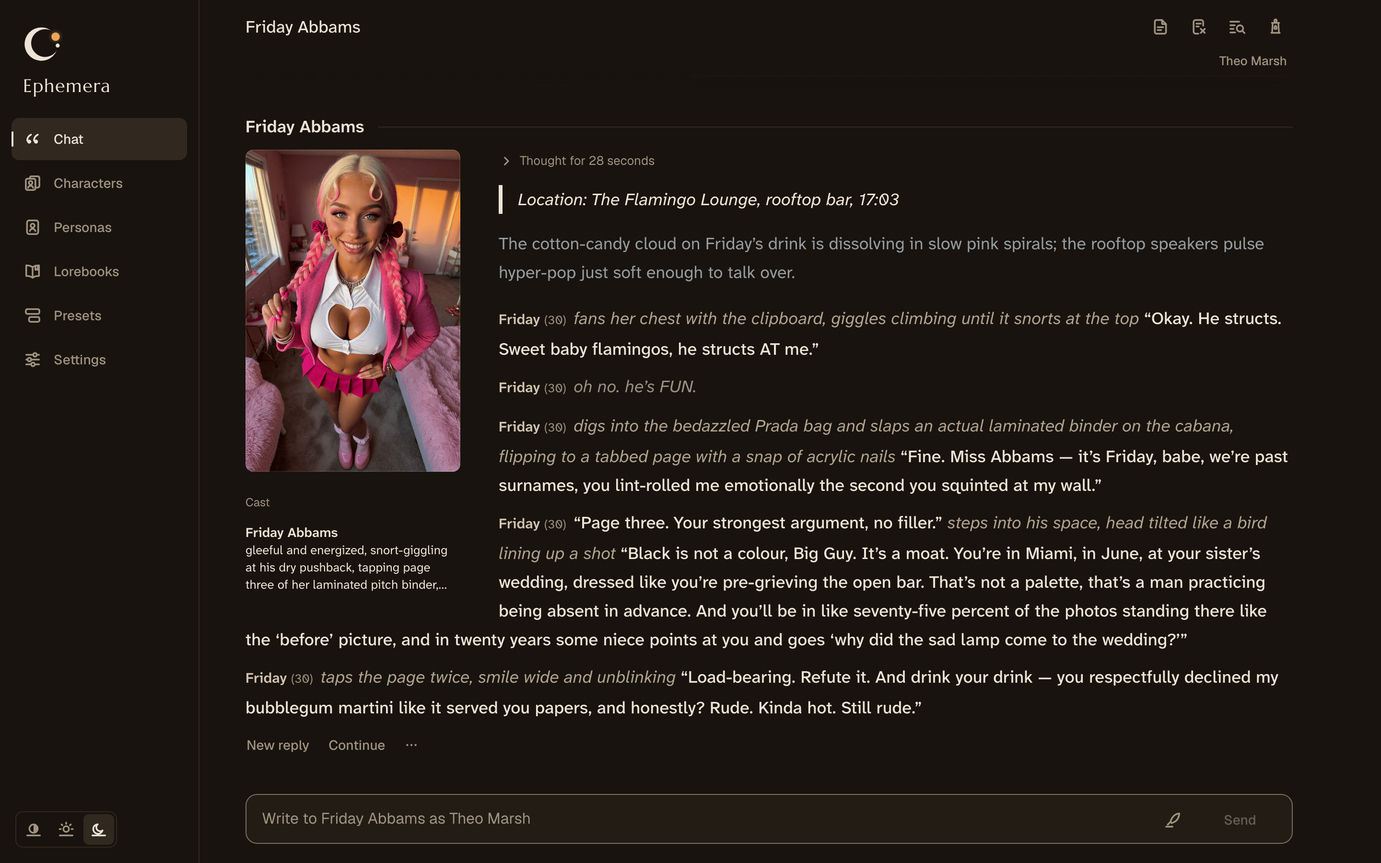
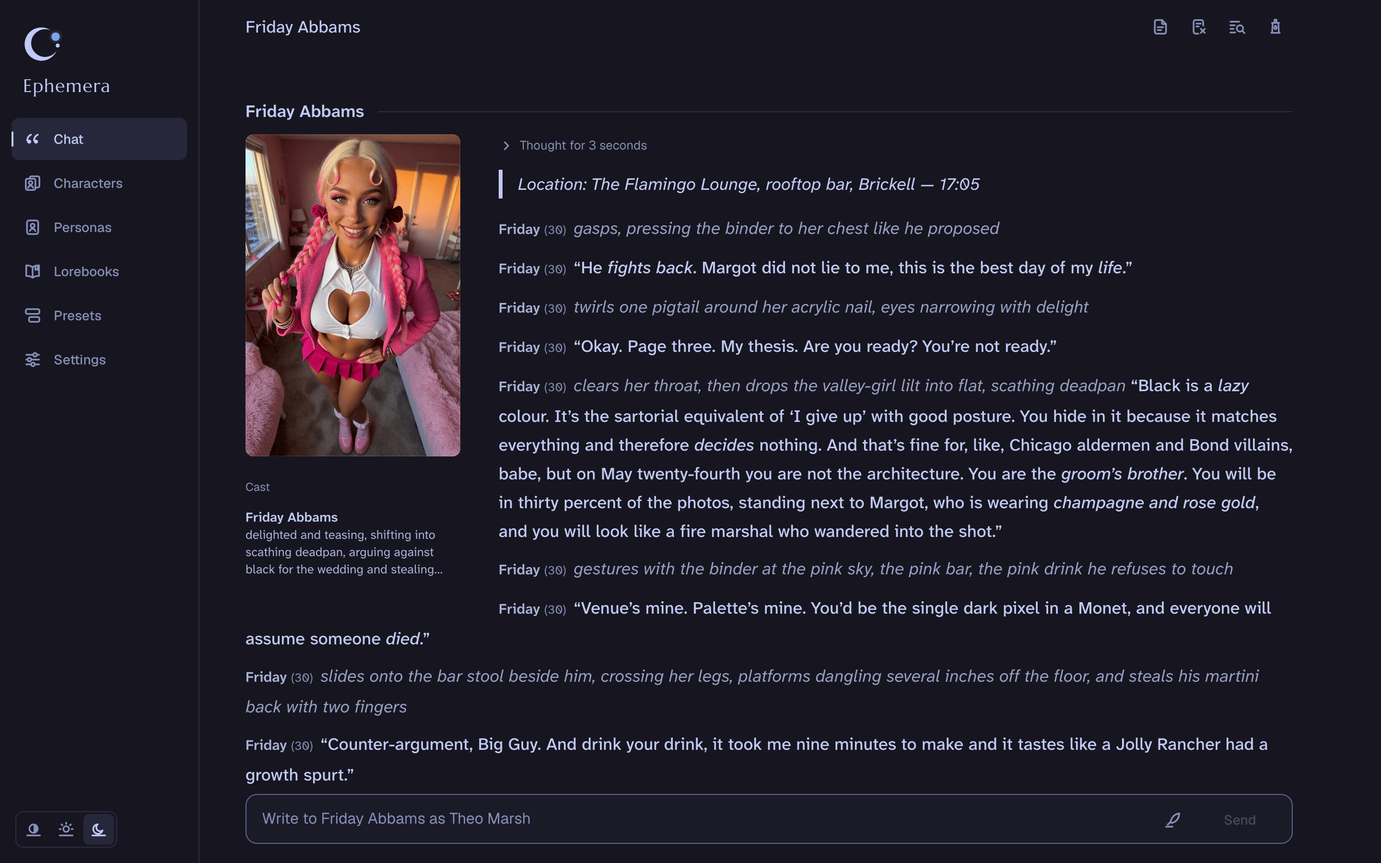
Make Tokyo Night the default palette
New installations and new users start on Tokyo Night; users who already chose a palette keep it. Secondary text now holds its contrast floor on selected rows in every built-in palette, and the README screenshots show the new default.

diff --git a/apps/web/src/styles.css b/apps/web/src/styles.css
@@ -32,11 +32,42 @@
  * Palettes: every colour token, defined once per palette as a light-dark()
  * pair, so the theme picks the scheme and the palette only the colours.
  * `data-palette` on <html> (core PALETTES, saved in Settings) chooses one;
- * on a swatch it scopes one to the swatch. Lamplight, Ephemera's own, needs
- * no attribute. Every palette holds Lamplight's contrast floors in both
- * schemes (e2e/design.spec.ts).
+ * on a swatch it scopes one to the swatch. Tokyo Night, the default (core
+ * DEFAULT_PALETTE), needs no attribute, so its block comes first and every
+ * later one overrides it. Every palette holds Lamplight's contrast floors in
+ * both schemes (e2e/design.spec.ts).
  */
+/* Tokyo Night: Day by day, Night by night, a blue accent. */
 :root,
+[data-palette="tokyo-night"] {
+  --canvas-base: light-dark(#e1e2e7, #16161e);
+  --surface-base: light-dark(#e9e9ed, #1a1b26);
+  --surface-hover-base: light-dark(#d6d8e2, #222436);
+  --surface-pressed-base: light-dark(#c4c8da, #292e42);
+  --surface-selected-base: light-dark(#d0d3e2, #24283b);
+  --rush-base: light-dark(#c4c8da, #292e42);
+  --ink: light-dark(#343b58, #c0caf5);
+  --narration: light-dark(#414868, #a9b1d6);
+  --ink-action: light-dark(#454d6d, #969ec2);
+  --ink-thought: light-dark(#4b5b97, #838bb5);
+  --ink-narration: light-dark(#466376, #7999ad);
+  --reed: light-dark(#485890, #858fba);
+  --control-edge: light-dark(#7b7d97, #5d6697);
+  --dusk: light-dark(#2668cf, #7aa2f7);
+  --dusk-hover: light-dark(#1f5cbd, #8db0f9);
+  --dusk-line: light-dark(#2e7de9, #7aa2f7);
+  --on-dusk: light-dark(#f4f5f8, #16161e);
+  --ember: light-dark(#bf024f, #f7768e);
+  --tone-rose: light-dark(#7e20bd, #bb9af7);
+  --tone-sage: light-dark(#425f23, #9ece6a);
+  --tone-iris: light-dark(#035d7d, #7dcfff);
+  --tone-mist: light-dark(#516290, #a9b1d6);
+  --error-surface: light-dark(#f0d7df, #3a1f2b);
+  --text-disabled: light-dark(#a1a6c5, #414868);
+  --scrim: light-dark(rgb(52 59 88 / 0.3), rgb(0 0 0 / 0.55));
+  --shadow-overlay: light-dark(rgb(52 59 88 / 0.14), rgb(0 0 0 / 0.5));
+}
+
 [data-palette="lamplight"] {
   /* Warm plaster by day, a lamplit room by night, one amber lamp. */
   --canvas-base: light-dark(#e6e2dc, #17130f);
@@ -93,7 +124,7 @@
   --ink-action: light-dark(#4e5168, #99a0bb);
   --ink-thought: light-dark(#5e6177, #878ea8);
   --ink-narration: light-dark(#57647a, #8898b0);
-  --reed: light-dark(#5d6076, #8893ad);
+  --reed: light-dark(#5a5d73, #8b96b0);
   --control-edge: light-dark(#81828d, #6c7086);
   --dusk: light-dark(#8839ef, #cba6f7);
   --dusk-hover: light-dark(#7a2ee0, #d7b9fa);
@@ -123,7 +154,7 @@
   --ink-action: light-dark(#565270, #a19dba);
   --ink-thought: light-dark(#66627f, #8f8ba9);
   --ink-narration: light-dark(#576978, #849aa3);
-  --reed: light-dark(#696583, #8f8aa8);
+  --reed: light-dark(#65617f, #938eac);
   --control-edge: light-dark(#888593, #6e6a86);
   --dusk: light-dark(#d7827e, #ebbcba);
   --dusk-hover: light-dark(#cc716d, #f2cbc9);
@@ -153,7 +184,7 @@
   --ink-action: light-dark(#495265, #c4cad4);
   --ink-thought: light-dark(#586277, #b0b7c4);
   --ink-narration: light-dark(#516675, #a5b9bf);
-  --reed: light-dark(#566175, #b6becc);
+  --reed: light-dark(#535e72, #bbc3d1);
   --control-edge: light-dark(#778499, #8092ab);
   --dusk: light-dark(#4f72a0, #88c0d0);
   --dusk-hover: light-dark(#45679a, #9acbd9);
@@ -183,7 +214,7 @@
   --ink-action: light-dark(#564f4b, #b4a58a);
   --ink-thought: light-dark(#685e56, #a3947e);
   --ink-narration: light-dark(#5d635b, #92a091);
-  --reed: light-dark(#685d55, #a8997f);
+  --reed: light-dark(#645951, #ab9c82);
   --control-edge: light-dark(#8a7f70, #7e7166);
   --dusk: light-dark(#af3a03, #fe8019);
   --dusk-hover: light-dark(#9a3302, #ff9440);
@@ -198,36 +229,6 @@
   --text-disabled: light-dark(#a89984, #665c54);
   --scrim: light-dark(rgb(60 56 54 / 0.3), rgb(0 0 0 / 0.55));
   --shadow-overlay: light-dark(rgb(60 56 54 / 0.14), rgb(0 0 0 / 0.5));
-}
-
-/* Tokyo Night: Day by day, Night by night, a blue accent. */
-[data-palette="tokyo-night"] {
-  --canvas-base: light-dark(#e1e2e7, #16161e);
-  --surface-base: light-dark(#e9e9ed, #1a1b26);
-  --surface-hover-base: light-dark(#d6d8e2, #222436);
-  --surface-pressed-base: light-dark(#c4c8da, #292e42);
-  --surface-selected-base: light-dark(#d0d3e2, #24283b);
-  --rush-base: light-dark(#c4c8da, #292e42);
-  --ink: light-dark(#343b58, #c0caf5);
-  --narration: light-dark(#414868, #a9b1d6);
-  --ink-action: light-dark(#454d6d, #969ec2);
-  --ink-thought: light-dark(#4b5b97, #838bb5);
-  --ink-narration: light-dark(#466376, #7999ad);
-  --reed: light-dark(#4a5a92, #828cb7);
-  --control-edge: light-dark(#7b7d97, #5d6697);
-  --dusk: light-dark(#2668cf, #7aa2f7);
-  --dusk-hover: light-dark(#1f5cbd, #8db0f9);
-  --dusk-line: light-dark(#2e7de9, #7aa2f7);
-  --on-dusk: light-dark(#f4f5f8, #16161e);
-  --ember: light-dark(#bf024f, #f7768e);
-  --tone-rose: light-dark(#7e20bd, #bb9af7);
-  --tone-sage: light-dark(#425f23, #9ece6a);
-  --tone-iris: light-dark(#035d7d, #7dcfff);
-  --tone-mist: light-dark(#516290, #a9b1d6);
-  --error-surface: light-dark(#f0d7df, #3a1f2b);
-  --text-disabled: light-dark(#a1a6c5, #414868);
-  --scrim: light-dark(rgb(52 59 88 / 0.3), rgb(0 0 0 / 0.55));
-  --shadow-overlay: light-dark(rgb(52 59 88 / 0.14), rgb(0 0 0 / 0.5));
 }
 
 :root {

diff --git a/e2e/settings.spec.ts b/e2e/settings.spec.ts
@@ -56,8 +56,9 @@ async function settingSwitch(
   return control;
 }
 
-const LIGHT = "rgb(230, 226, 220)";
-const DARK = "rgb(23, 19, 15)";
+/** Tokyo Night, the default palette: its canvas by day and by night. */
+const LIGHT = "rgb(225, 226, 231)";
+const DARK = "rgb(22, 22, 30)";
 
 test("the theme follows the system unless overridden", async ({ page }) => {
   await page.emulateMedia({ colorScheme: "light" });
@@ -154,7 +155,7 @@ test("a palette recolours the app in either scheme and is painted onto the app s
   const palettes = () => page.getByRole("radiogroup", { name: "Palette", exact: true });
   await page.emulateMedia({ colorScheme: "light" });
   await page.goto("/settings");
-  await expect(palettes().getByRole("radio", { name: "Lamplight" })).toBeChecked();
+  await expect(palettes().getByRole("radio", { name: "Tokyo Night" })).toBeChecked();
 
   await palettes().getByRole("radio", { name: "Nord" }).click();
   await expect.poll(() => canvas(page)).toBe(NORD_LIGHT);
@@ -167,7 +168,7 @@ test("a palette recolours the app in either scheme and is painted onto the app s
   expect(await canvas(page)).toBe(NORD_DARK);
   await expect(palettes().getByRole("radio", { name: "Nord" })).toBeChecked();
 
-  await palettes().getByRole("radio", { name: "Lamplight" }).click();
+  await palettes().getByRole("radio", { name: "Tokyo Night" }).click();
   await expect.poll(() => canvas(page)).toBe(DARK);
   await expect.poll(shellPalette).toBe(false);
 });
@@ -210,7 +211,7 @@ test("a tab that started on the fallback settings takes the saved theme and pale
       "aria-pressed",
       "true",
     );
-    await expect(palettes.getByRole("radio", { name: "Lamplight" })).toBeChecked();
+    await expect(palettes.getByRole("radio", { name: "Tokyo Night" })).toBeChecked();
     // Marks this document, so the recovery below is shown without a reload.
     await page.evaluate(() => {
       (window as unknown as { __sameDocument: boolean }).__sameDocument = true;
@@ -375,7 +376,7 @@ test("a custom palette starts from a built-in, warns, saves, paints before scrip
   await expect(own().getByRole("radio", { name: "Harbour" })).toHaveCount(0);
   await expect.poll(async () => (await shell()).includes("/api/palettes.css")).toBe(false);
 
-  await palettes().getByRole("radio", { name: "Lamplight" }).click();
+  await palettes().getByRole("radio", { name: "Tokyo Night" }).click();
   await expect.poll(() => canvas(page)).toBe(LIGHT);
 });
 

diff --git a/packages/core/src/palettes.ts b/packages/core/src/palettes.ts
@@ -8,7 +8,7 @@ import { HIGHLIGHT_TONES } from "./preset/highlight.ts";
 
 /**
  * The colour palette, each with a light and a dark scheme the theme picks
- * between; colours only, never layout or type. Lamplight is Ephemera's own.
+ * between; colours only, never layout or type. Lamplight is Ephemera's own;\n * Tokyo Night is the default.
  */
 export const PALETTES = [
   "lamplight",
@@ -21,7 +21,7 @@ export const PALETTES = [
 export type Palette = (typeof PALETTES)[number];
 
 /** The palette a new installation starts on; it needs no `data-palette` attribute. */
-export const DEFAULT_PALETTE = "lamplight" satisfies Palette;
+export const DEFAULT_PALETTE = "tokyo-night" satisfies Palette;
 
 /** The player's palettes, one per slot. */
 const CUSTOM_PALETTES = ["custom-1", "custom-2", "custom-3"] as const;
@@ -208,7 +208,11 @@ export const CONTRAST_FLOORS: readonly {
   { role: "ink-action", grounds: on("canvas", "surface"), floor: 6 },
   { role: "ink-thought", grounds: on("canvas", "surface"), floor: 4.8 },
   { role: "ink-narration", grounds: on("canvas", "surface"), floor: 4.8 },
-  { role: "reed", grounds: on("canvas", "surface", "surface-hover"), floor: 4.5 },
+  {
+    role: "reed",
+    grounds: on("canvas", "surface", "surface-hover", "surface-selected"),
+    floor: 4.5,
+  },
   { role: "control-edge", grounds: on("canvas", "surface"), floor: 3 },
   { role: "dusk-line", grounds: on("canvas", "surface"), floor: 3 },
   { role: "on-dusk", grounds: on("dusk", "dusk-hover"), floor: 4.5 },

diff --git a/e2e/design.spec.ts b/e2e/design.spec.ts
@@ -1909,7 +1909,7 @@ for (const scheme of ["light", "dark"] as const) {
       const { canvas, lowest } = await page.evaluate(
         ({ id, floors, wash }) => {
           const root = document.documentElement;
-          if (id === "lamplight") delete root.dataset.palette;
+          if (id === "tokyo-night") delete root.dataset.palette;
           else if (id !== null) root.dataset.palette = id;
           // Every colour as `color(srgb r g b)`, channels 0 to 1, whatever its own form.
           const srgb = (color: string) => {
@@ -1948,7 +1948,7 @@ for (const scheme of ["light", "dark"] as const) {
       }
       canvases.add(canvas);
     }
-    // Each palette applied its own colours, rather than falling back to Lamplight's.
+    // Each palette applied its own colours, rather than falling back to the default's.
     expect(canvases.size).toBe(ids.length);
   });
 }

diff --git a/apps/server/test/palettes.test.ts b/apps/server/test/palettes.test.ts
@@ -64,14 +64,14 @@ describe("custom palette store", () => {
   it("refuses to choose an empty slot, as a missing reference", () => {
     const { stores } = setup();
     expect(stores.settings.update({ palette: "custom-2" })).toBeUndefined();
-    expect(stores.settings.get().palette).toBe("lamplight");
+    expect(stores.settings.get().palette).toBe("tokyo-night");
     stores.palettes.create(2, palette());
     expect(stores.settings.update({ palette: "custom-2" })?.palette).toBe("custom-2");
   });
 
   it.each([
     ["its built-in base", "nord", "nord"],
-    ["Lamplight when its base is custom", "custom-1", "lamplight"],
+    ["the default when its base is custom", "custom-1", "tokyo-night"],
   ] as const)(
     "returns the settings to %s when the chosen palette is deleted",
     (_case, base, after) => {

diff --git a/apps/web/index.html b/apps/web/index.html
@@ -4,8 +4,8 @@
     <meta charset="UTF-8" />
     <meta name="viewport" content="width=device-width, initial-scale=1, viewport-fit=cover, interactive-widget=resizes-content" />
     <meta name="color-scheme" content="light dark" />
-    <meta name="theme-color" media="(prefers-color-scheme: light)" content="#e6e2dc" />
-    <meta name="theme-color" media="(prefers-color-scheme: dark)" content="#17130f" />
+    <meta name="theme-color" media="(prefers-color-scheme: light)" content="#e1e2e7" />
+    <meta name="theme-color" media="(prefers-color-scheme: dark)" content="#16161e" />
     <link rel="icon" href="/favicon.ico" sizes="32x32" />
     <link rel="icon" href="/favicon.svg" type="image/svg+xml" />
     <link rel="apple-touch-icon" href="/apple-touch-icon.png" />

diff --git a/apps/web/auth/renewed.html b/apps/web/auth/renewed.html
@@ -4,8 +4,8 @@
     <meta charset="UTF-8" />
     <meta name="viewport" content="width=device-width, initial-scale=1, viewport-fit=cover" />
     <meta name="color-scheme" content="light dark" />
-    <meta name="theme-color" media="(prefers-color-scheme: light)" content="#e6e2dc" />
-    <meta name="theme-color" media="(prefers-color-scheme: dark)" content="#17130f" />
+    <meta name="theme-color" media="(prefers-color-scheme: light)" content="#e1e2e7" />
+    <meta name="theme-color" media="(prefers-color-scheme: dark)" content="#16161e" />
     <link rel="icon" href="/favicon.ico" sizes="32x32" />
     <link rel="icon" href="/favicon.svg" type="image/svg+xml" />
     <link rel="apple-touch-icon" href="/apple-touch-icon.png" />

diff --git a/apps/server/src/persistence/palettes.ts b/apps/server/src/persistence/palettes.ts
@@ -18,8 +18,8 @@ import type { CustomPaletteStore } from "./store.ts";
  * replacing never creates, and replacing or deleting names the save it acts
  * on (`updatedAt`), so a tab whose list is behind another's cannot overwrite
  * or delete a palette it has not seen. Deleting the palette the settings
- * choose returns them to its built-in base, or to Lamplight, in the same
- * transaction.
+ * choose returns them to its built-in base, or to the default palette, in
+ * the same transaction.
  */
 export function createCustomPaletteStore(db: Db): CustomPaletteStore {
   const get = (slot: CustomSlot): CustomPalette | undefined =>

diff --git a/apps/server/src/persistence/schema.ts b/apps/server/src/persistence/schema.ts
@@ -312,7 +312,10 @@ export const settings = sqliteTable(
   {
     id: integer().primaryKey(),
     theme: text().$type<Theme>().notNull(),
-    /** A core palette id or a saved custom slot's; existing rows keep Ephemera's own. */
+    /**
+     * A core palette id or a saved custom slot's. The SQL default filled rows
+     * from before the column with Lamplight; a new row takes core DEFAULT_PALETTE.
+     */
     palette: text().$type<PaletteChoice>().notNull().default("lamplight"),
     model: text(),
     /** The model that starts image prompts; null uses each surface's own default. */

diff --git a/apps/server/src/persistence/store.ts b/apps/server/src/persistence/store.ts
@@ -289,7 +289,7 @@ export interface CustomPaletteStore {
   ): CustomPalette | "missing" | "changed";
   /**
    * Removes the palette saved at `updatedAt`; settings that chose it return
-   * to its built-in base or Lamplight. "missing" or "changed" as for replace.
+   * to its built-in base or the default palette. "missing" or "changed" as for replace.
    */
   delete(slot: CustomSlot, updatedAt: number): "deleted" | "missing" | "changed";
 }

diff --git a/apps/server/src/images.ts b/apps/server/src/images.ts
@@ -35,7 +35,7 @@ export const IMAGE_LIMITS = {
    */
   vision: { width: 1024, height: 1024, quality: 80, worstCaseBytes: 800_000 },
   /** Image of a PNG export for a character without a portrait. */
-  placeholder: { width: 512, height: 768, background: "#e6e2dc" },
+  placeholder: { width: 512, height: 768, background: "#e1e2e7" },
 } as const;
 
 const ALLOWED_FORMATS = new Set(["png", "jpeg", "webp"]);

diff --git a/docs/ARCHITECTURE.md b/docs/ARCHITECTURE.md
@@ -63,7 +63,7 @@ Major versions are architectural choices; exact versions live in
 | Dates | dayjs with `utc`, `timezone`, `duration` and `relativeTime` | Date macros, UTC offsets and relative differences in `packages/core`; naive dates use the browser's zone, including DST. It reaches the browser in the shared API chunk |
 | API | Hono 4 with `@hono/bun`, Zod 4 | Validated routes, streaming, typed RPC client, static SPA |
 | LLM | AI SDK 7, `@ai-sdk/openai-compatible` | Streaming, abort, reasoning parts, provider quirks |
-| Storage | `bun:sqlite`, Drizzle ORM, `node:crypto` | One SQLite database per user, in memory while in use and encrypted at rest (§ Users and storage): characters, personas and their character bindings, prompt presets with their Author's Note (a nullable column; a row without one reads as the default) and sampler presets, library lorebooks (`lorebooks`: a name and the whole book in the embedded book's schema and limits, its compact JSON within the card limit, the book's own `name` mirroring the row's, and the counts the library lists, written with the book and brought up to date when the database opens, so listing never parses a book) and their links to characters (`character_lorebooks`: at most `LOREBOOK_LINKS`, 8, per character, each at a position; a link is appended after the last in one transaction, linking again changes nothing, unlinking leaves the others' positions, deleting either side removes the link, and duplicating a character copies its links), events (`events`: at most `EVENT_LIMITS.events`, 200, each a one-line text, a chance, a cooldown in replies, an on/off flag and a scope of all cards or chosen character ids and tags, the ids held without a reference so an unknown one matches nothing; definitions only, with no column for which event fired where), a character's memory (`memory_notebooks`: one row per character, keyed by it, with the on/off flag, the situation, relationships, facts and threads, and `opening`, the next chat's opening (at most `MEMORY_LIMITS.opening`, 600 characters, empty when there is none); a PATCH carries the notebook whole, and one without the notebook or the opening keeps the stored one; `memories`: at most `MEMORY_LIMITS.episodes`, 2,000, per character, each an episode or a chapter with a per-character `seq`, a title, a summary, cues, how many turns it covered, the chapter that absorbed it and a pinned flag; both cascade with their character, and neither has a column for the turns, the chat or the span a memory came from), characters' cast sheets (`cast_sheets`: one row per character, keyed by it and cascading with it, holding the card fingerprint it was read at, its entries' fixed records without any state, at most `CAST_LIMITS.sheetEntries`, 8, and a `revision` each write increments; a chat's register has no column), up to three custom palettes (`custom_palettes`: by slot 1 to 3, a name, the palette it started from, its colours and the base's by scheme, the roles set by hand; deleting the chosen one returns the setting to its built-in base, or Lamplight, in the same transaction), the user's imported ComfyUI workflows (`workflows`: at most `WORKFLOW_LIMITS.workflows`, 24, each a name unique regardless of ASCII case, an image model family, the finalized API template with `{{prompt}}` in the prompt's place, its node count and a `revision`; deleting the one the settings choose returns them to the default workflow in the same transaction), one row of UI settings (theme, colour palette, model, image prompt model (null leaves each image prompt on its surface's default), chosen character and persona, default persona, chosen presets, context windows the owner set for models the provider reports none for, the owner's context limit per model, the ComfyUI address and workflow for card portraits, memory's model, effort and sizes, the cast calls' model and effort (null follows memory's), and `memoryOpening`, whether a new chat opens on the memory's opening, a column with SQL default true; references clear themselves when their target is deleted), and portraits of characters and personas in one table (each row belongs to exactly one owner and holds its dimensions, version and WebP thumbnail, and names the encrypted file under the user's folder that holds its PNG), so an entity and its portrait row change in one transaction, and a portrait's file is durable before any database image that names it. One store per entity, each parsing its core schema on every write. Characters, personas, presets, lorebooks, events, notebooks, memories and workflows carry a `revision` that each update increments; a PATCH names the revision its sheet loaded, and a stale one is refused with 409 and the current revision, checked and written in one transaction, so a tab behind another never overwrites it unasked (the sheet offers Reload or Keep mine, which saves the tab's whole version). A stale PATCH that would change nothing, such as a retry after a lost answer, is answered as saved and writes nothing; after a save whose answer was lost, the sheet sends it again alone, as it was, before newer edits, so it learns the revision instead of meeting a false conflict. drizzle-kit runs on demand (`bun run db:generate`, from outside the workspace) to generate migrations; the server applies them when a user's database opens, with foreign keys off (Drizzle runs them in one transaction, where a migration's own `PRAGMA foreign_keys=OFF` does nothing, so a table rebuild would cascade), checks the result with `PRAGMA foreign_key_check` and only then turns enforcement on. A migration therefore never relies on a cascade. At start the server verifies migrations and the native data upgrade, then durably encrypts every changed database before listening; failure refuses startup. The deploy's pre-migration snapshot is the way back |
+| Storage | `bun:sqlite`, Drizzle ORM, `node:crypto` | One SQLite database per user, in memory while in use and encrypted at rest (§ Users and storage): characters, personas and their character bindings, prompt presets with their Author's Note (a nullable column; a row without one reads as the default) and sampler presets, library lorebooks (`lorebooks`: a name and the whole book in the embedded book's schema and limits, its compact JSON within the card limit, the book's own `name` mirroring the row's, and the counts the library lists, written with the book and brought up to date when the database opens, so listing never parses a book) and their links to characters (`character_lorebooks`: at most `LOREBOOK_LINKS`, 8, per character, each at a position; a link is appended after the last in one transaction, linking again changes nothing, unlinking leaves the others' positions, deleting either side removes the link, and duplicating a character copies its links), events (`events`: at most `EVENT_LIMITS.events`, 200, each a one-line text, a chance, a cooldown in replies, an on/off flag and a scope of all cards or chosen character ids and tags, the ids held without a reference so an unknown one matches nothing; definitions only, with no column for which event fired where), a character's memory (`memory_notebooks`: one row per character, keyed by it, with the on/off flag, the situation, relationships, facts and threads, and `opening`, the next chat's opening (at most `MEMORY_LIMITS.opening`, 600 characters, empty when there is none); a PATCH carries the notebook whole, and one without the notebook or the opening keeps the stored one; `memories`: at most `MEMORY_LIMITS.episodes`, 2,000, per character, each an episode or a chapter with a per-character `seq`, a title, a summary, cues, how many turns it covered, the chapter that absorbed it and a pinned flag; both cascade with their character, and neither has a column for the turns, the chat or the span a memory came from), characters' cast sheets (`cast_sheets`: one row per character, keyed by it and cascading with it, holding the card fingerprint it was read at, its entries' fixed records without any state, at most `CAST_LIMITS.sheetEntries`, 8, and a `revision` each write increments; a chat's register has no column), up to three custom palettes (`custom_palettes`: by slot 1 to 3, a name, the palette it started from, its colours and the base's by scheme, the roles set by hand; deleting the chosen one returns the setting to its built-in base, or Tokyo Night, the default, in the same transaction), the user's imported ComfyUI workflows (`workflows`: at most `WORKFLOW_LIMITS.workflows`, 24, each a name unique regardless of ASCII case, an image model family, the finalized API template with `{{prompt}}` in the prompt's place, its node count and a `revision`; deleting the one the settings choose returns them to the default workflow in the same transaction), one row of UI settings (theme, colour palette, model, image prompt model (null leaves each image prompt on its surface's default), chosen character and persona, default persona, chosen presets, context windows the owner set for models the provider reports none for, the owner's context limit per model, the ComfyUI address and workflow for card portraits, memory's model, effort and sizes, the cast calls' model and effort (null follows memory's), and `memoryOpening`, whether a new chat opens on the memory's opening, a column with SQL default true; references clear themselves when their target is deleted), and portraits of characters and personas in one table (each row belongs to exactly one owner and holds its dimensions, version and WebP thumbnail, and names the encrypted file under the user's folder that holds its PNG), so an entity and its portrait row change in one transaction, and a portrait's file is durable before any database image that names it. One store per entity, each parsing its core schema on every write. Characters, personas, presets, lorebooks, events, notebooks, memories and workflows carry a `revision` that each update increments; a PATCH names the revision its sheet loaded, and a stale one is refused with 409 and the current revision, checked and written in one transaction, so a tab behind another never overwrites it unasked (the sheet offers Reload or Keep mine, which saves the tab's whole version). A stale PATCH that would change nothing, such as a retry after a lost answer, is answered as saved and writes nothing; after a save whose answer was lost, the sheet sends it again alone, as it was, before newer edits, so it learns the revision instead of meeting a false conflict. drizzle-kit runs on demand (`bun run db:generate`, from outside the workspace) to generate migrations; the server applies them when a user's database opens, with foreign keys off (Drizzle runs them in one transaction, where a migration's own `PRAGMA foreign_keys=OFF` does nothing, so a table rebuild would cascade), checks the result with `PRAGMA foreign_key_check` and only then turns enforcement on. A migration therefore never relies on a cascade. At start the server verifies migrations and the native data upgrade, then durably encrypts every changed database before listening; failure refuses startup. The deploy's pre-migration snapshot is the way back |
 | Cards | Own PNG chunk walker, own Zod schemas | Native character JSON uses a strict versioned envelope. Native PNG reads and writes one base64 `ephemera` text chunk. Import-only readers accept foreign V2/V3 `ccv3` then `chara` chunks. Native data takes precedence; duplicates, unsupported versions, mixed shapes and malformed native markers fail closed. Recognized foreign fields become typed camelCase data and unknown metadata is dropped with an import report. Import fits lorebook keywords, names and tags to their limits. Compact serialization and UTF-8 limits live in `packages/core`. The bounded PNG walker strips compressed text before portrait decoding and validates at most one ICC profile within a 1 MiB inflation limit; portrait output strips metadata |
 | Images | sharp | Portraits: only the PNG, JPEG and WebP loaders unblocked, header-checked pixel cap, re-encoded to PNG plus a WebP thumbnail, metadata stripped; a JPEG vision copy for model calls; prebuilt for linux-arm64 |
 | Lorebook keys | re2js, `Intl.Segmenter` | A character book's regex keys run only on re2js, a linear-time RE2 port, never on the native `RegExp` (card patterns are untrusted; JavaScriptCore's backtracking limit answers "no match" instead of failing). Plain keys match with `includes`; whole words by `Intl.Segmenter` boundaries or punctuation beside the key, so scripts without spaces and possessives work. Every assembly's scan has a deterministic work bound, and entry text is filled and counted only up to the budget's cutoff, within a per-assembly allowance; entries past either are reported, not scanned. A request assembles at most `MEMORY_LIMITS.held` plus three times (Memory, step 9), each attempt with its own bounds so a fold never changes which entries activate. Secondary keys match on the same rules; recursive passes test each key against each chat or entry text once, charged to the same bound, and entries a bound kept a pass from reaching are reported unscanned. An entry's sparse native settings are read and written through one core owner (`entrySettings` and `withEntrySettings` in `lorebook/settings.ts`), and timed effects by another (`lorebook/timed.ts`), whose per-chat state names entries by their library book (absent for the book in the card), their index inside it and a digest of the entry (`Bun.hash`, injected by the server) so an edited entry loses its effect and an effect never moves to another book. re2js reaches the browser only in the lorebook editor's chunks, where the editor flags keys that never match |
